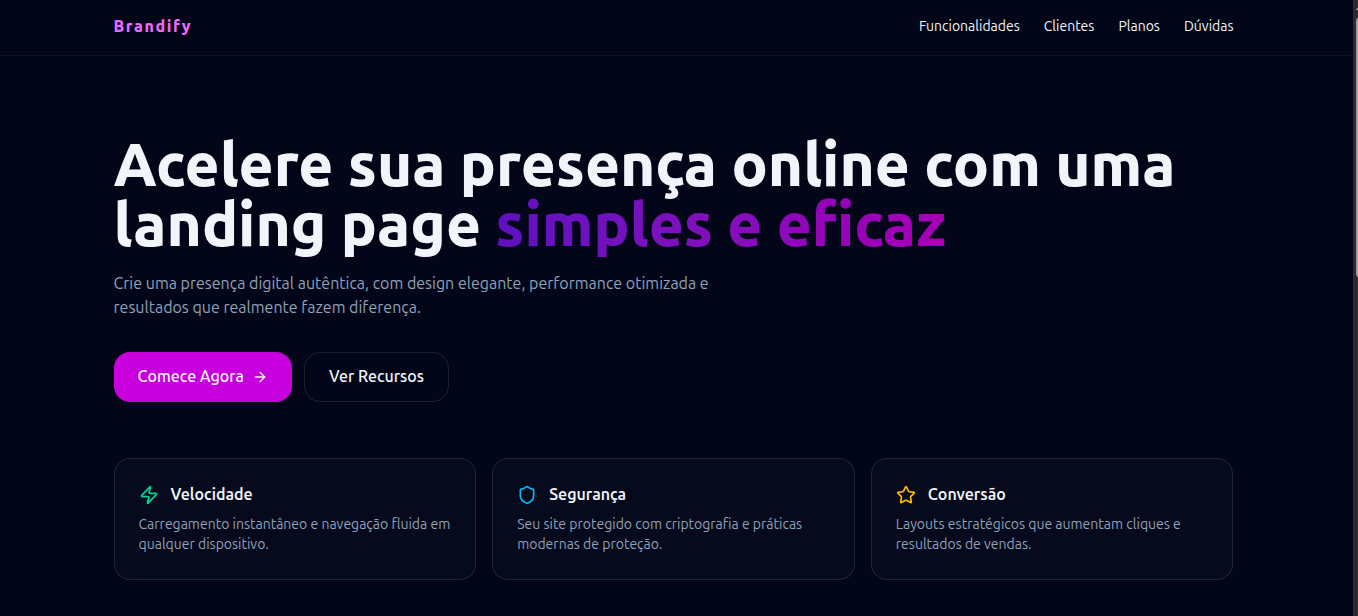
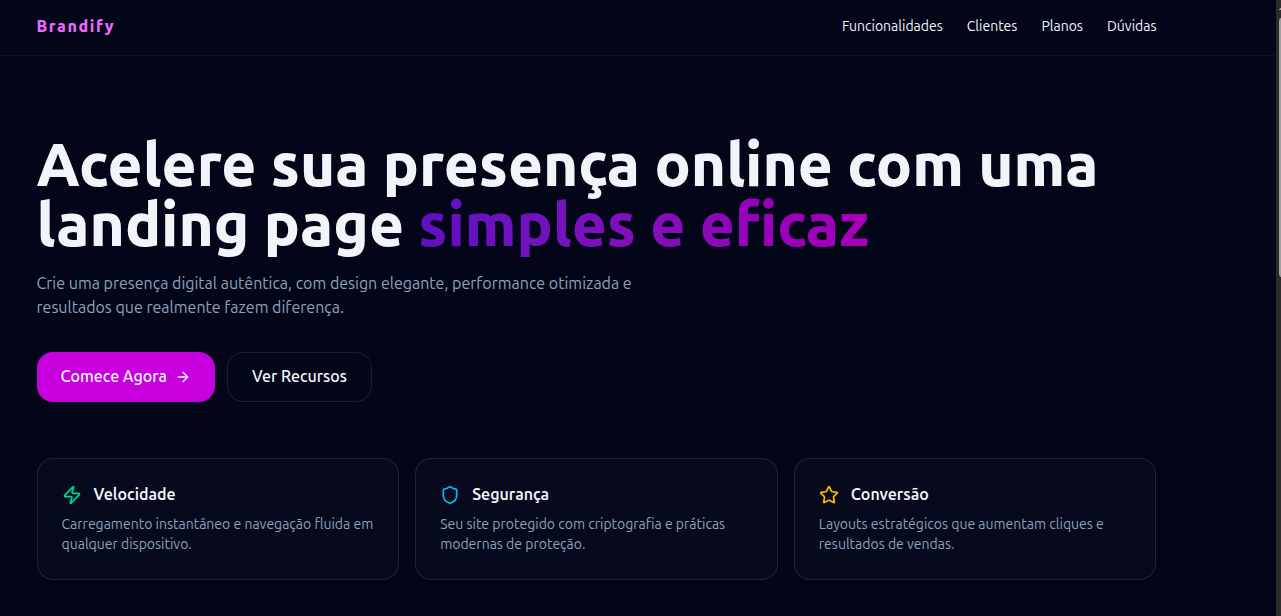
Edit: Editando detalhes pequenos nos novos projetos

diff --git a/src/data/projects.js b/src/data/projects.js
@@ -9,7 +9,7 @@ export const projects = [
   {
     slug: 'helpdesk-system',
     title: 'Help Desk System',
-    role: 'Fullstack',  
+    role: 'Fullstack',
     year: '2025',
     tags: ['Next.js', 'PHP', 'MySQL'],
     preview: helpdesk,
@@ -93,7 +93,7 @@ export const projects = [
     year: '2025',
     tags: ['React', 'Tailwind CSS', 'Framer Motion'],
     preview: brandify,
-    previewPosition: 'object-center',
+    previewPosition: 'object-left',
     githubURL: 'https://github.com/tenmenezes/Brandify',
     liveURL: 'https://tenmenezes.github.io/Brandify',
     summary:
@@ -101,7 +101,7 @@ export const projects = [
     description:
       'Brandify é um projeto desenvolvido com React e Vite, estilizado com Tailwind CSS e animado com Framer Motion. O site foi projetado para entregar uma experiência de usuário fluida, com componentização em React, desempenho otimizado e deploy automatizado no GitHub Pages.',
     details: [
-      { label: 'Tipo', value: 'Site Institucional / Portfólio Front-end' },
+      { label: 'Tipo', value: 'Site Institucional / Landing Page Front-end' },
       { label: 'Stack', value: 'React, Vite, Tailwind CSS, Framer Motion' },
       { label: 'Escopo', value: 'Interface interativa, responsiva e com animações suaves' },
       { label: 'Ano', value: '2025' },
@@ -122,6 +122,7 @@ export const projects = [
     preview: fourplayers,
     previewPosition: 'object-center',
     githubURL: 'https://github.com/tenmenezes/4Players',
+    liveURL: 'https://tenmenezes.github.io/4Players',
     summary:
       'Projeto web de estudo que simula uma loja virtual de jogos com páginas por plataforma, cadastro de usuário, carrinho de compras e alternância entre tema claro e escuro.',
     description:
@@ -130,7 +131,7 @@ export const projects = [
       { label: 'Tipo', value: 'Loja Virtual de Jogos' },
       { label: 'Stack', value: 'HTML5, CSS3, JavaScript, LocalStorage' },
       { label: 'Escopo', value: 'Catálogo por plataforma, cadastro, carrinho e tema dinâmico' },
-      { label: 'Ano', value: '2024' },
+      { label: 'Ano', value: '2025' },
     ],
     highlights: [
       'Páginas específicas para jogos de PlayStation, Xbox e Nintendo',

diff --git a/src/pages/ProjectDetailPage.jsx b/src/pages/ProjectDetailPage.jsx
@@ -128,7 +128,7 @@ export function ProjectDetailPage() {
                   className="inline-flex items-center gap-2 rounded-full border border-border bg-background/90 px-4 py-2 text-[0.65rem] uppercase tracking-[0.2em] text-foreground backdrop-blur-sm transition hover:bg-foreground hover:text-background"
                 >
                   <ExternalLink className="h-3.5 w-3.5" />
-                  Ver projeto
+                  Demo
                 </a>
               )}
 
